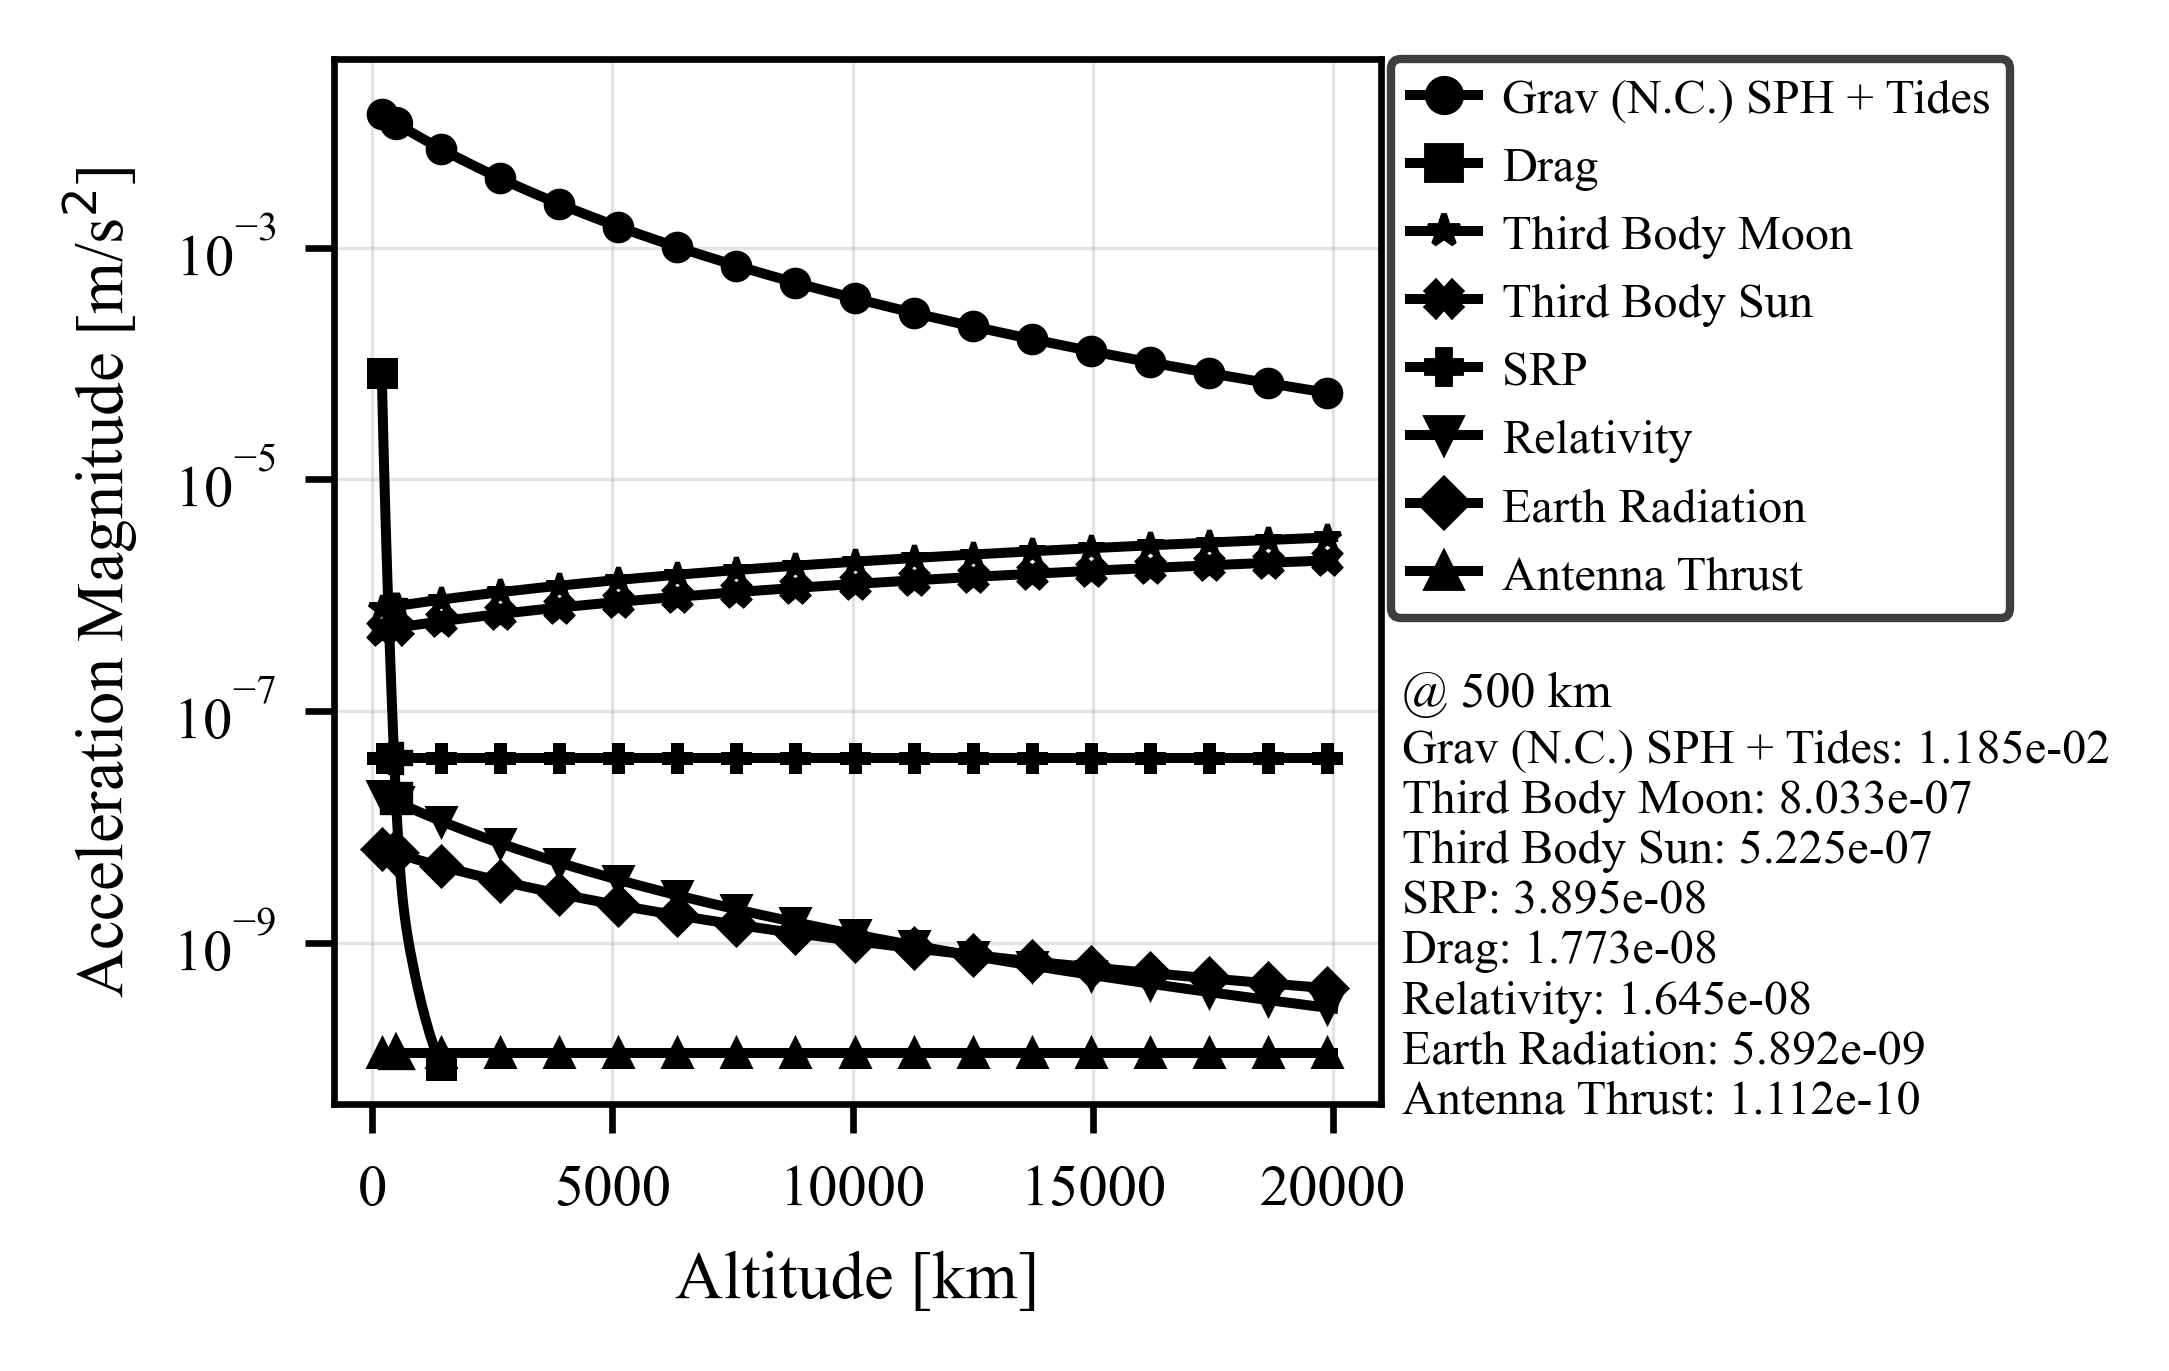
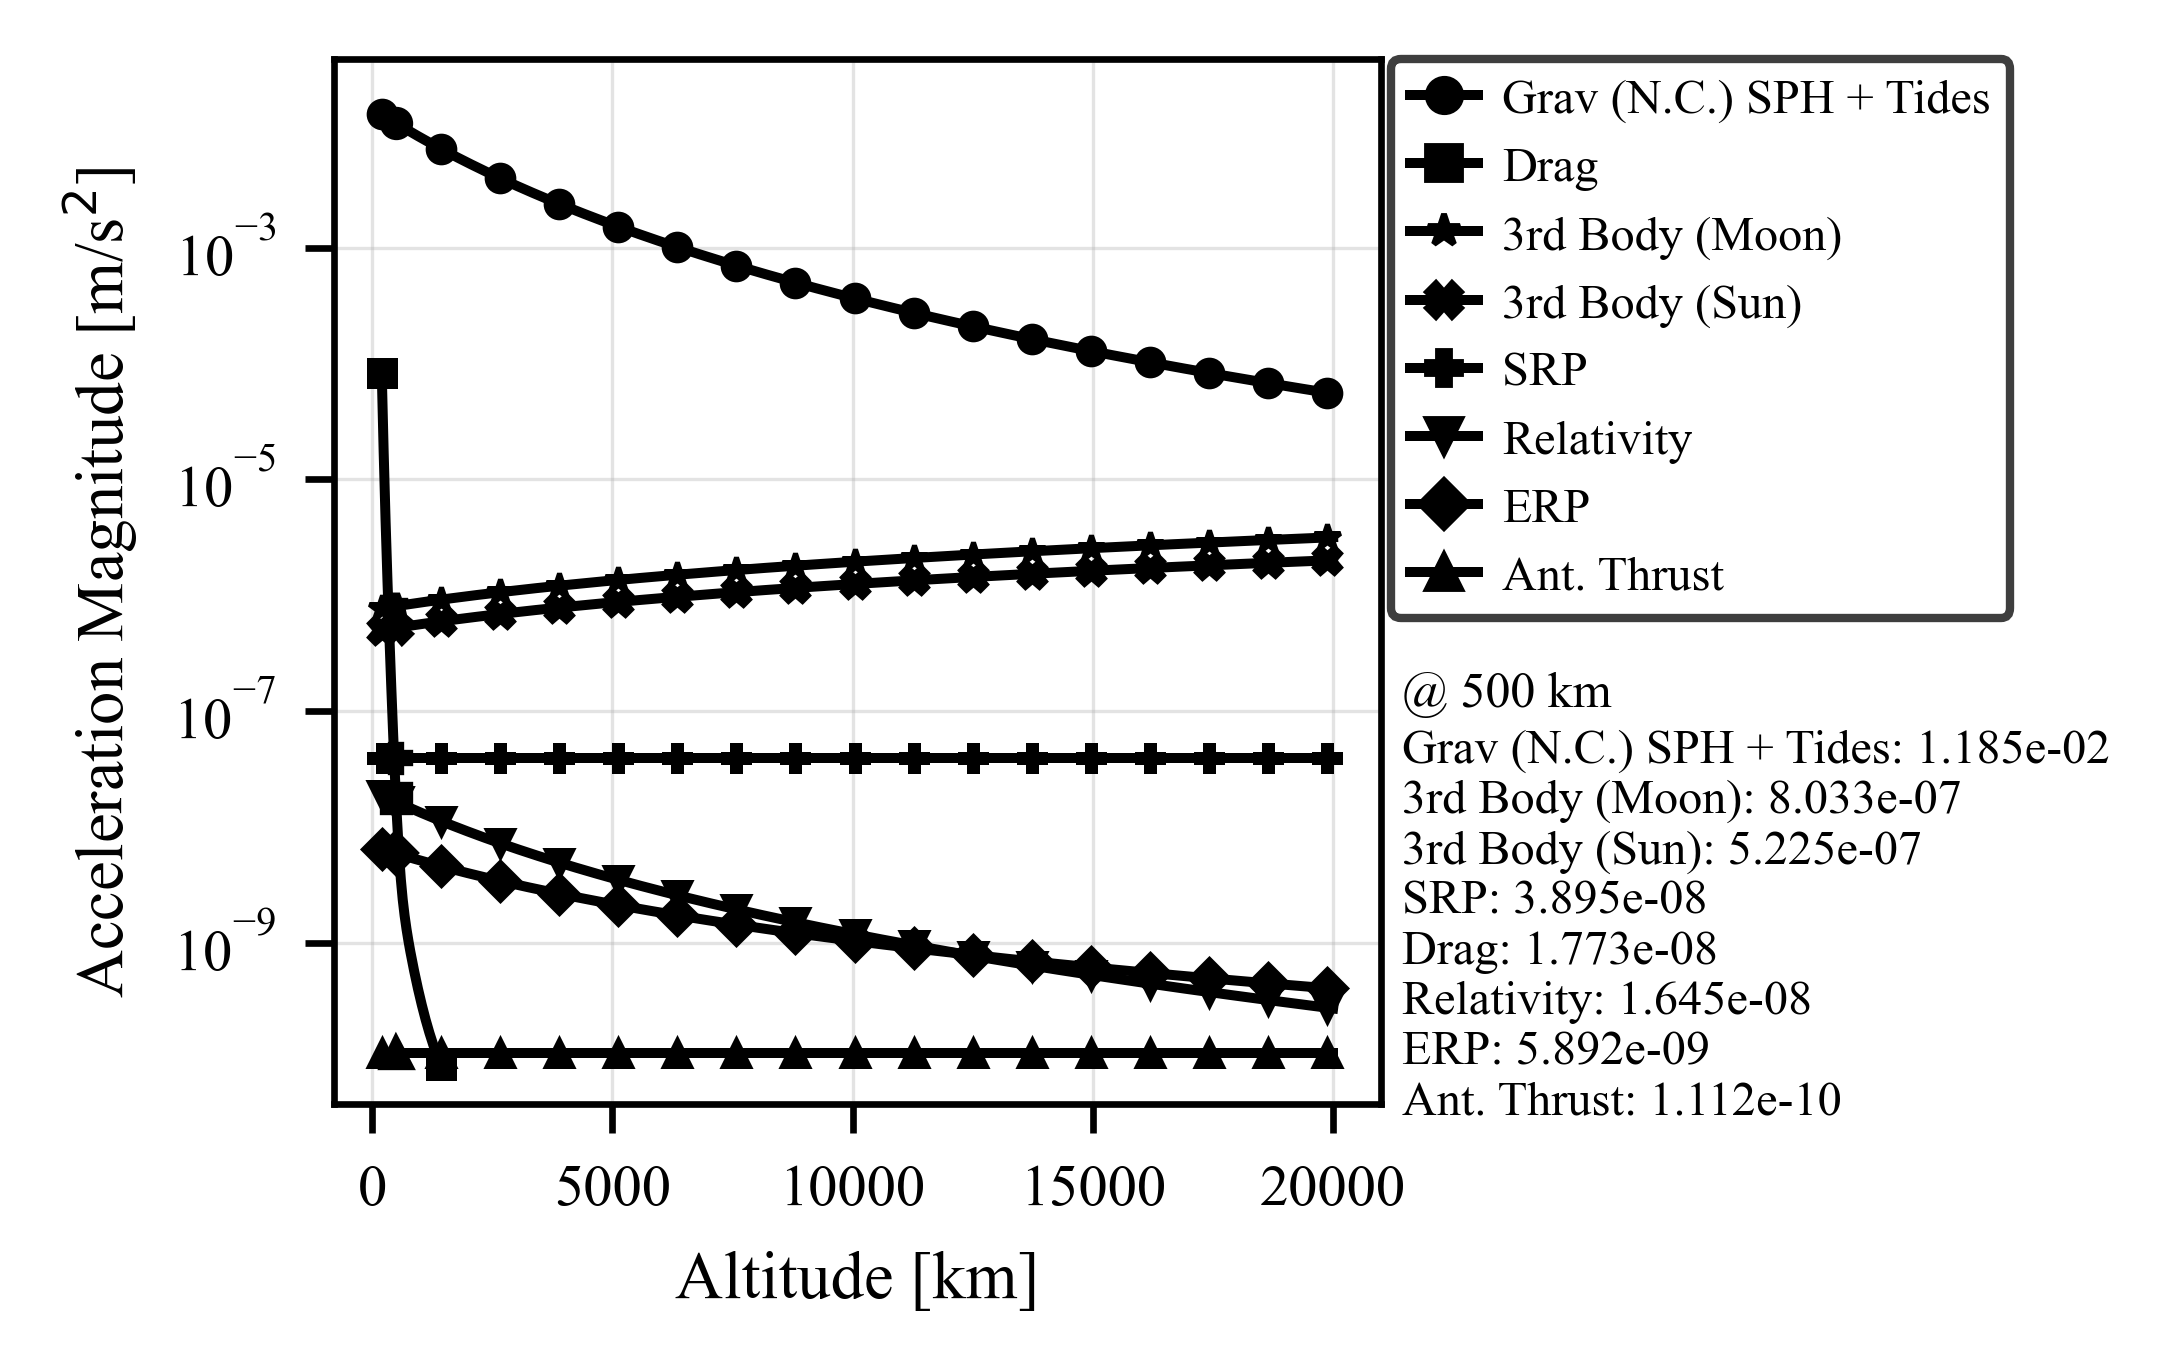
plot/docs: shorten legend labels for 3rd body, ERP, and antenna thrust

diff --git a/scripts/plot_perturbation_profile.py b/scripts/plot_perturbation_profile.py
@@ -100,6 +100,14 @@ def load_csv(path: Path):
 def pretty_label(key: str) -> str:
     if key == "gravity_sph_tides_mps2":
         return "Grav (N.C.) SPH + Tides"
+    if key == "third_body_sun_mps2":
+        return "3rd Body (Sun)"
+    if key == "third_body_moon_mps2":
+        return "3rd Body (Moon)"
+    if key == "earth_radiation_mps2":
+        return "ERP"
+    if key == "antenna_thrust_mps2":
+        return "Ant. Thrust"
     if key == "gravity_tides_mps2":
         return "Gravity Tides"
     if key == "gravity_sph_mps2":
